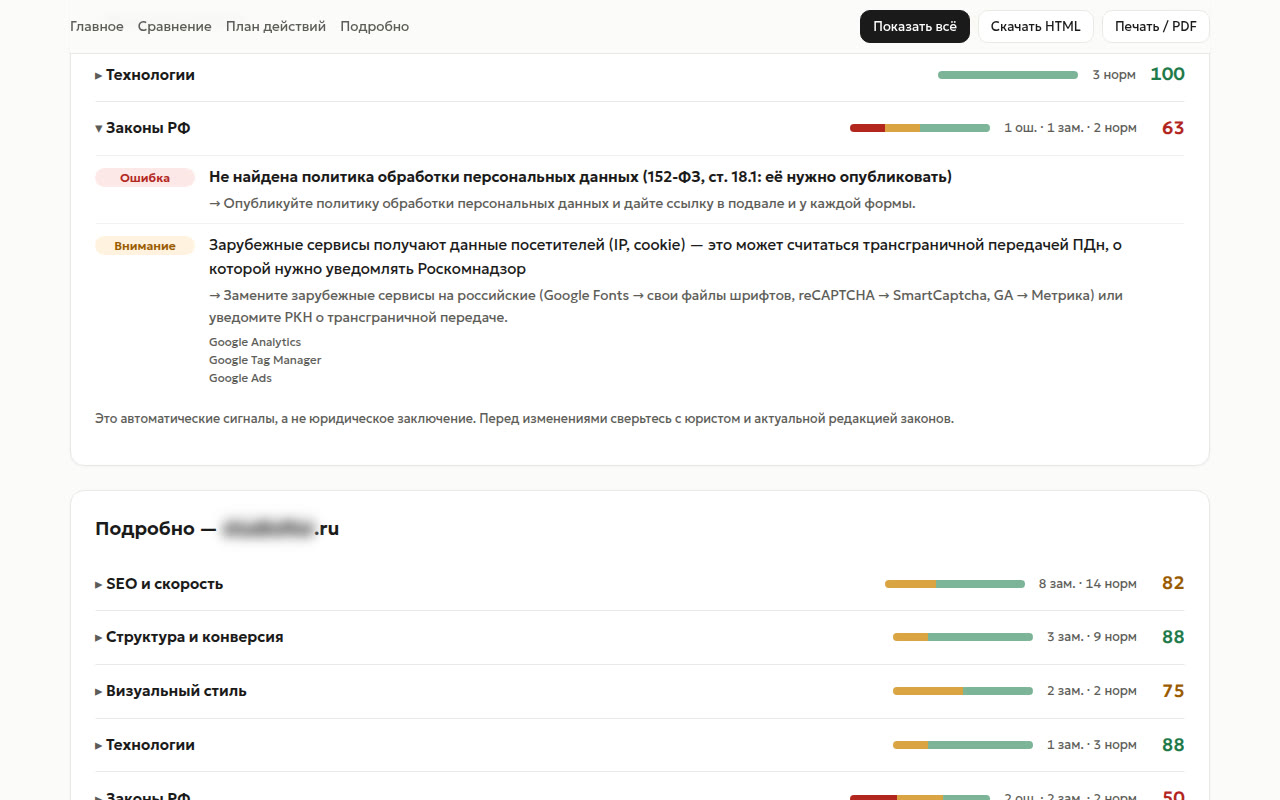
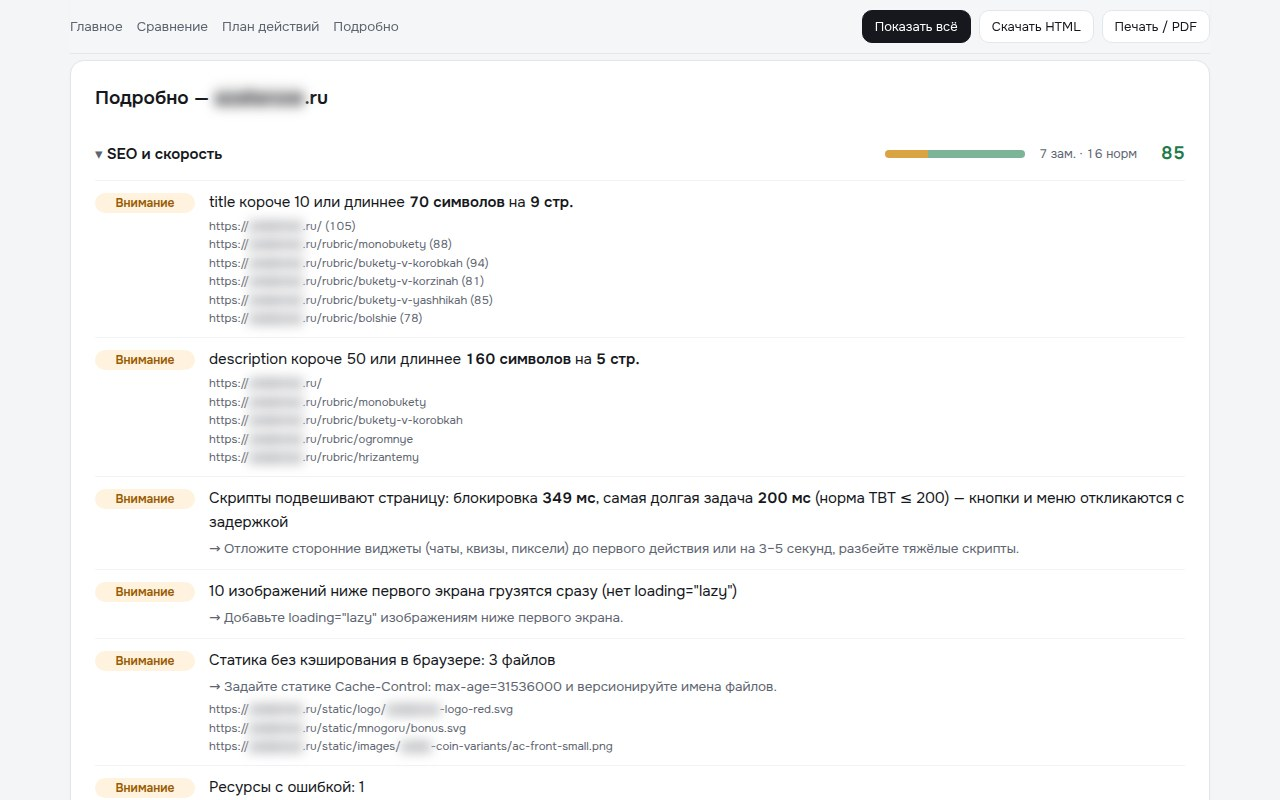
docs: обложка, скриншоты и GIF отчёта в новом стиле

diff --git a/README.md b/README.md
@@ -3,8 +3,8 @@
 <p align="center">
 <a href="https://github.com/kozhevnikovai/auditor-saitov/actions/workflows/ci.yml"><img src="https://github.com/kozhevnikovai/auditor-saitov/actions/workflows/ci.yml/badge.svg" alt="CI"></a>
 <a href="https://github.com/kozhevnikovai/auditor-saitov/releases/latest"><img src="https://img.shields.io/github/v/release/kozhevnikovai/auditor-saitov?label=%D0%B2%D0%B5%D1%80%D1%81%D0%B8%D1%8F&color=161616" alt="Версия"></a>
-<img src="https://img.shields.io/badge/%D0%BB%D0%B8%D1%86%D0%B5%D0%BD%D0%B7%D0%B8%D1%8F-MIT-161616" alt="MIT">
-<img src="https://img.shields.io/badge/Claude%20Desktop%20%C2%B7%20Claude%20Code%20%C2%B7%20CLI-FF5A1F" alt="Claude Desktop, Claude Code, CLI">
+<img src="https://img.shields.io/badge/%D0%BB%D0%B8%D1%86%D0%B5%D0%BD%D0%B7%D0%B8%D1%8F-MIT-16181D" alt="MIT">
+<img src="https://img.shields.io/badge/Claude%20Desktop%20%C2%B7%20Claude%20Code%20%C2%B7%20CLI-5E6470" alt="Claude Desktop, Claude Code, CLI">
 </p>
 
 <p align="center"><b>Русский</b> · <a href="README.en.md">English</a></p>

diff --git a/CHANGELOG.md b/CHANGELOG.md
@@ -7,6 +7,7 @@
 ### Изменено
 - Отчёт в новом стиле: шрифт Onest, серо-белая палитра, ваш сайт на радаре — тёмной линией с оранжевыми точками.
 - Новая иконка (отчёт, расширение для Claude Desktop).
+- Обложка, скриншоты и GIF в README — с отчёта в новом стиле.
 
 ## [1.3.1] — 2026-11-18
 
